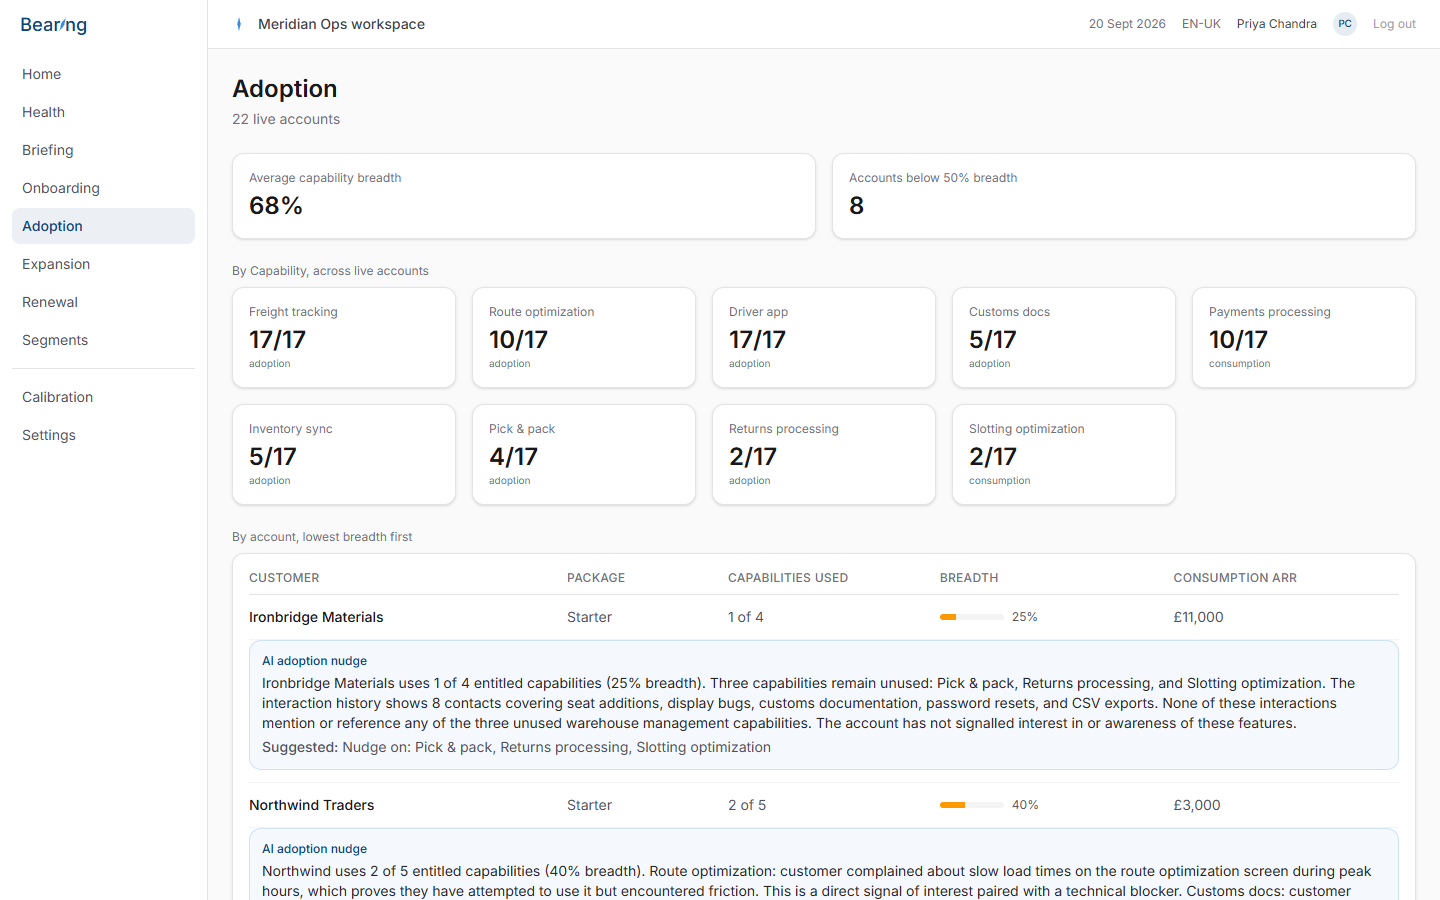
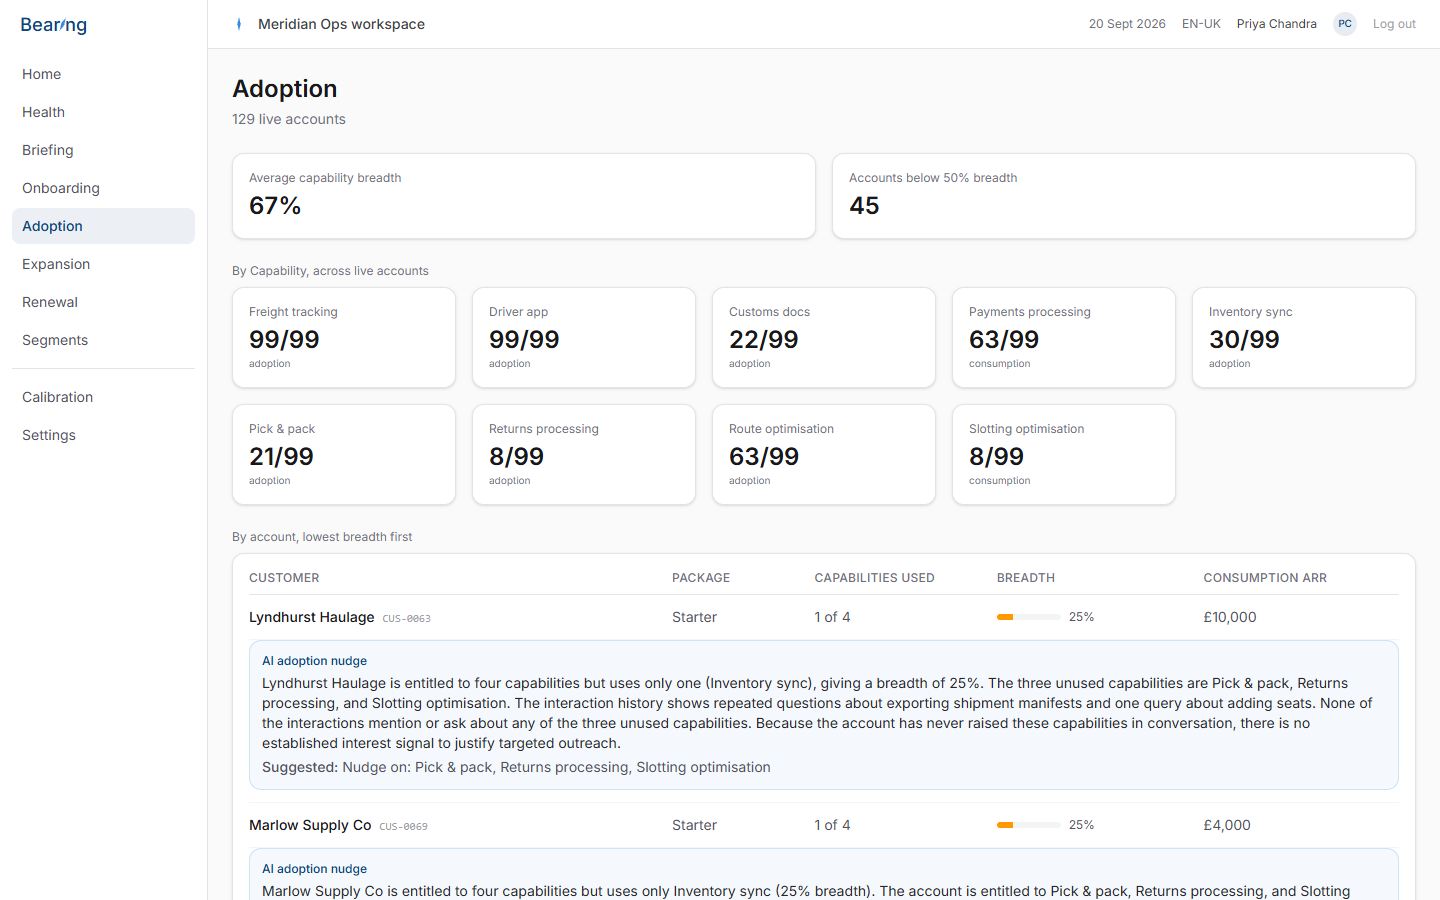
Record the full AI run on 120 customers and refresh screenshots
The whole pipeline ran on the new demo in about 34 minutes with no errors:
120 Health scores, 153 Expansion reviews, 45 Adoption nudges, 17 Renewal
save plays, 4 Onboarding declines. TESTING.md now has the measured counts,
timings and findings. README states the real limit it exposed: a Health run
takes 818 seconds at this size, over Vercel's 300-second function limit.
Seed wording changed to UK spelling, and the stored rows updated to match.
All 14 screenshots recaptured against the 120-customer data.

diff --git a/prisma/seed.ts b/prisma/seed.ts
@@ -290,7 +290,7 @@ async function main() {
 
   const capNames: [string, string][] = [
     ["Freight tracking", "adoption"],
-    ["Route optimization", "adoption"],
+    ["Route optimisation", "adoption"],
     ["Driver app", "adoption"],
     ["Customs docs", "adoption"],
     ["Payments processing", "consumption"],
@@ -325,7 +325,7 @@ async function main() {
     ["Inventory sync", "adoption"],
     ["Pick & pack", "adoption"],
     ["Returns processing", "adoption"],
-    ["Slotting optimization", "consumption"],
+    ["Slotting optimisation", "consumption"],
   ];
   const warehouseCapabilities = [];
   for (const [name, metricType] of warehouseCapNames) {
@@ -420,7 +420,7 @@ async function main() {
     ];
     const unhappyTickets = [
       "Escalated: repeated sync failures between billing and freight tracking, third time this month.",
-      "Customer frustrated with slow load times on the route optimization screen during peak hours.",
+      "Customer frustrated with slow load times on the route optimisation screen during peak hours.",
       "Complaint about a missed SLA on a support ticket raised two weeks ago.",
     ];
     const competitorTickets = [
@@ -505,7 +505,7 @@ async function main() {
     for (let i = 0; i < (opts.trainingSessionCount ?? 0); i++) {
       trainingRows.push({
         customerId,
-        courseName: pick(["Platform onboarding", "Advanced route optimization", "Admin & reporting"]),
+        courseName: pick(["Platform onboarding", "Advanced route optimisation", "Admin & reporting"]),
         attendeeCount: randInt(1, 5),
         occurredAt: daysAgo(randInt(10, 300)),
       });

diff --git a/README.md b/README.md
@@ -37,7 +37,7 @@ A conceptual exploration of an agentic-AI Customer Success platform – planned 
 
 ![Health scoring architecture](docs/screenshots/health-scoring-architecture.svg)
 
-All fourteen screenshots are real captures of the live app (`/login`, `/signup`, `/`, `/health`, `/health/[customerId]`, `/briefing`, `/onboarding`, `/adoption`, `/expansion`, `/renewal`, `/segments`, `/calibration`, `/settings`, `/marketing`), taken against the production deployment with the synthetic data described below. None are mockups. Renewal, Settings and Marketing are full-page captures; the rest show the top of the page. Onboarding shows no AI recovery plan because both overdue accounts were correctly declined for lack of evidence (see [Playbook agentic layers](#playbook-agentic-layers)). `health-scoring-architecture.svg` is a diagram, not a screenshot. Regenerate the screenshots with `npm run screenshots` (`scripts/capture-screenshots.mjs`, Puppeteer-driven).
+All fourteen screenshots are real captures of the live app (`/login`, `/signup`, `/`, `/health`, `/health/[customerId]`, `/briefing`, `/onboarding`, `/adoption`, `/expansion`, `/renewal`, `/segments`, `/calibration`, `/settings`, `/marketing`), taken against the production deployment with the synthetic data described below. None are mockups. Renewal, Settings and Marketing are full-page captures; the rest show the top of the page. Onboarding shows no AI recovery plan because all four overdue accounts were correctly declined for lack of evidence (see [Playbook agentic layers](#playbook-agentic-layers)). `health-scoring-architecture.svg` is a diagram, not a screenshot. Regenerate the screenshots with `npm run screenshots` (`scripts/capture-screenshots.mjs`, Puppeteer-driven).
 
 The repo is named descriptively for portfolio discoverability; **"Bearing"** is the working product name used within the app and mockups themselves.
 
@@ -155,10 +155,10 @@ other four lifecycle areas.
   visitors, not to simulate a real customer's trial economics.
 
 `npx tsc --noEmit`, `npm run lint`, and `npm run build` all clean. Verified for real against the live demo
-workspace's own configured key, not just unit-tested: real Anthropic calls producing real, evidence-grounded output
-across Onboarding (two overdue accounts correctly declined, with no evidence beyond "it's late"), Adoption (8 accounts),
-Expansion (27 opportunities) and Renewal (11 at-risk renewals), all after the key was topped up following a first run
-that ran out of credit. See `TESTING.md` for that first run and the dedup bug it caught.
+workspace's own configured key, not just unit-tested. The full pipeline ran on the 120-customer demo in about 34
+minutes with no errors: 120 Health scores, 153 Expansion reviews, 45 Adoption nudges, 17 Renewal save plays, and 4
+overdue onboarding accounts all correctly declined (none had evidence beyond "it's late"). See `TESTING.md` for the
+earlier 19-customer run, its dedup bug, and the counts and timings from this one.
 
 ## Stage 2: live deployment
 
@@ -212,7 +212,7 @@ separate, additional requirement, not a substitute for an active trial.
 
 **How the schedule actually runs:** a single Vercel Cron job (`vercel.json`, `/api/cron/run-capabilities`) fires once a day - the only frequency [Vercel's free Hobby plan allows](https://vercel.com/docs/cron-jobs/usage-and-pricing) (more frequent expressions fail at deploy time). It checks every workspace's own schedule against `src/lib/capabilityRuns.ts`'s `isDue()` (comparing `lastRunAt` to the interval), so "Weekly" still means roughly every 7 days even though the underlying check happens daily. The route is locked down with a `CRON_SECRET` env var - [Vercel's own documented pattern](https://vercel.com/docs/cron-jobs/manage-cron-jobs#securing-cron-jobs) - so a stranger can't hit the URL directly and trigger spend against other workspaces' stored keys. `src/proxy.ts`'s matcher excludes `/api/*` for this reason: an API route needs its own auth strategy, not the session-cookie check every page gets.
 
-**Verified for real, including a genuine end-to-end run:** clicking Run now in Settings actually recomputed all 19 seeded customers' Health scores against the demo workspace's own configured key, took ~3.2 minutes (comfortably inside Vercel's 300-second Hobby function limit at this scale, though worth watching if the customer count grows much larger), and correctly showed "Health scores recomputed successfully" with an updated last-run timestamp afterward. See `TESTING.md` for the full log, including a real bug it caught (the proxy was redirecting the cron route to `/login` before this fix, since Vercel's cron invocation carries no session cookie to check).
+**Verified for real, and a limit it exposed:** Run now and the daily cron both work end to end against the demo workspace's own configured key. At 19 customers a Health run took about 3.2 minutes. At 120 customers it takes about 13.6 minutes (818 seconds), and the full set of five capabilities about 34. Vercel's Hobby plan stops a function at 300 seconds, so on the hosted app a single Run now click for Health would be cut off partway at this size. Every capability writes results as it goes, so a cut-off run keeps what it finished, but it does not resume. Batched, resumable runs are the fix and are not built yet. Running the scripts locally, as done for the figures above, has no such limit. See `TESTING.md` for the full log, including a real bug caught earlier (the proxy was redirecting the cron route to `/login`, since Vercel's cron invocation carries no session cookie to check).
 
 ## Test coverage
 

diff --git a/TESTING.md b/TESTING.md
@@ -305,4 +305,21 @@ The demo held 19 customers and 4 recorded outcomes, too thin to show how Calibra
 
 **Churn model minimum raised from 3 to 10 outcomes per band.** With the old 3, one Stable band of 3 accounts showed a 0% churn rate. `test-churn-model.ts` now checks the boundary itself: a band with exactly 10 outcomes uses its real rate, and a band with 9 falls back to the estimate even when all 9 churned.
 
-**Not yet done:** Health scores, opportunities and the other four AI layers have not been run on the new 120, so Health and Home's "needs attention" list are empty until they are. That run costs API credit and is waiting on approval.
+**The full AI run on the 120 customers** (approved by Dan, roughly 340 calls, run locally against the demo workspace's own key). It finished with no errors in 2,066 seconds (about 34 minutes):
+
+| Step | Result | Time |
+|---|---|---|
+| Health scores | 120 computed | 818s |
+| Book summary | 1 written | 11s |
+| Opportunities (deterministic rules, no API) | 153 across 129 live accounts | 5s |
+| Onboarding | 4 overdue accounts, all 4 declined | 15s |
+| Adoption | 45 nudges (accounts below the 50% breadth threshold) | 246s |
+| Expansion and Renewal | 153 reviews and 17 save plays | 971s together (the log does not split them) |
+
+**What the new data showed:**
+- Health bands after scoring: 18 Thriving, 45 Stable, 51 Watch, 6 Critical. Outcomes by current band: Stable 107 (0 churned), Thriving 49 (0 churned), Watch 54 (10 churned, 19%), Critical 7 (3 churned). Renewal's churn model therefore uses real observed rates for Stable, Thriving and Watch, and still falls back to the illustrative 60% for Critical, which has only 7 outcomes against the minimum of 10. The 0% for Stable and Thriving is an artefact of the seed (no account in those bands was given a churn event), not a finding.
+- Onboarding declined all 4 overdue accounts again. That is the guardrail working, and also a limit of the seed: its onboarding accounts carry too little interaction text for the model to say more than "it's late".
+- Layer 2 of Health applied a negative adjustment (most often -8) to a large share of accounts, which pulled 51 of 120 into Watch. The 6 Critical accounts are fewer than the 14 seeded from the critical profile. Whether Layer 2 is too pessimistic or the seed's signals are too mild is not settled by this run.
+- Stored AI text was checked afterwards: 0 em dashes, and UK spelling. The one exception was "optimization", which came from the seed's own product and ticket wording, not the model. Fixed in `seed.ts` and, to avoid a second 34-minute run, in the stored rows directly (capability names, ticket text, training courses and every AI text field).
+
+**A limit this run exposed:** a Health run for 120 customers takes 818 seconds, more than double Vercel's 300-second function limit on the Hobby plan. On the hosted app, Run now for Health would be cut off part way. Results already written are kept, but the run does not resume. Batched, resumable runs are needed, and are not built. The scripts run locally have no such limit.
